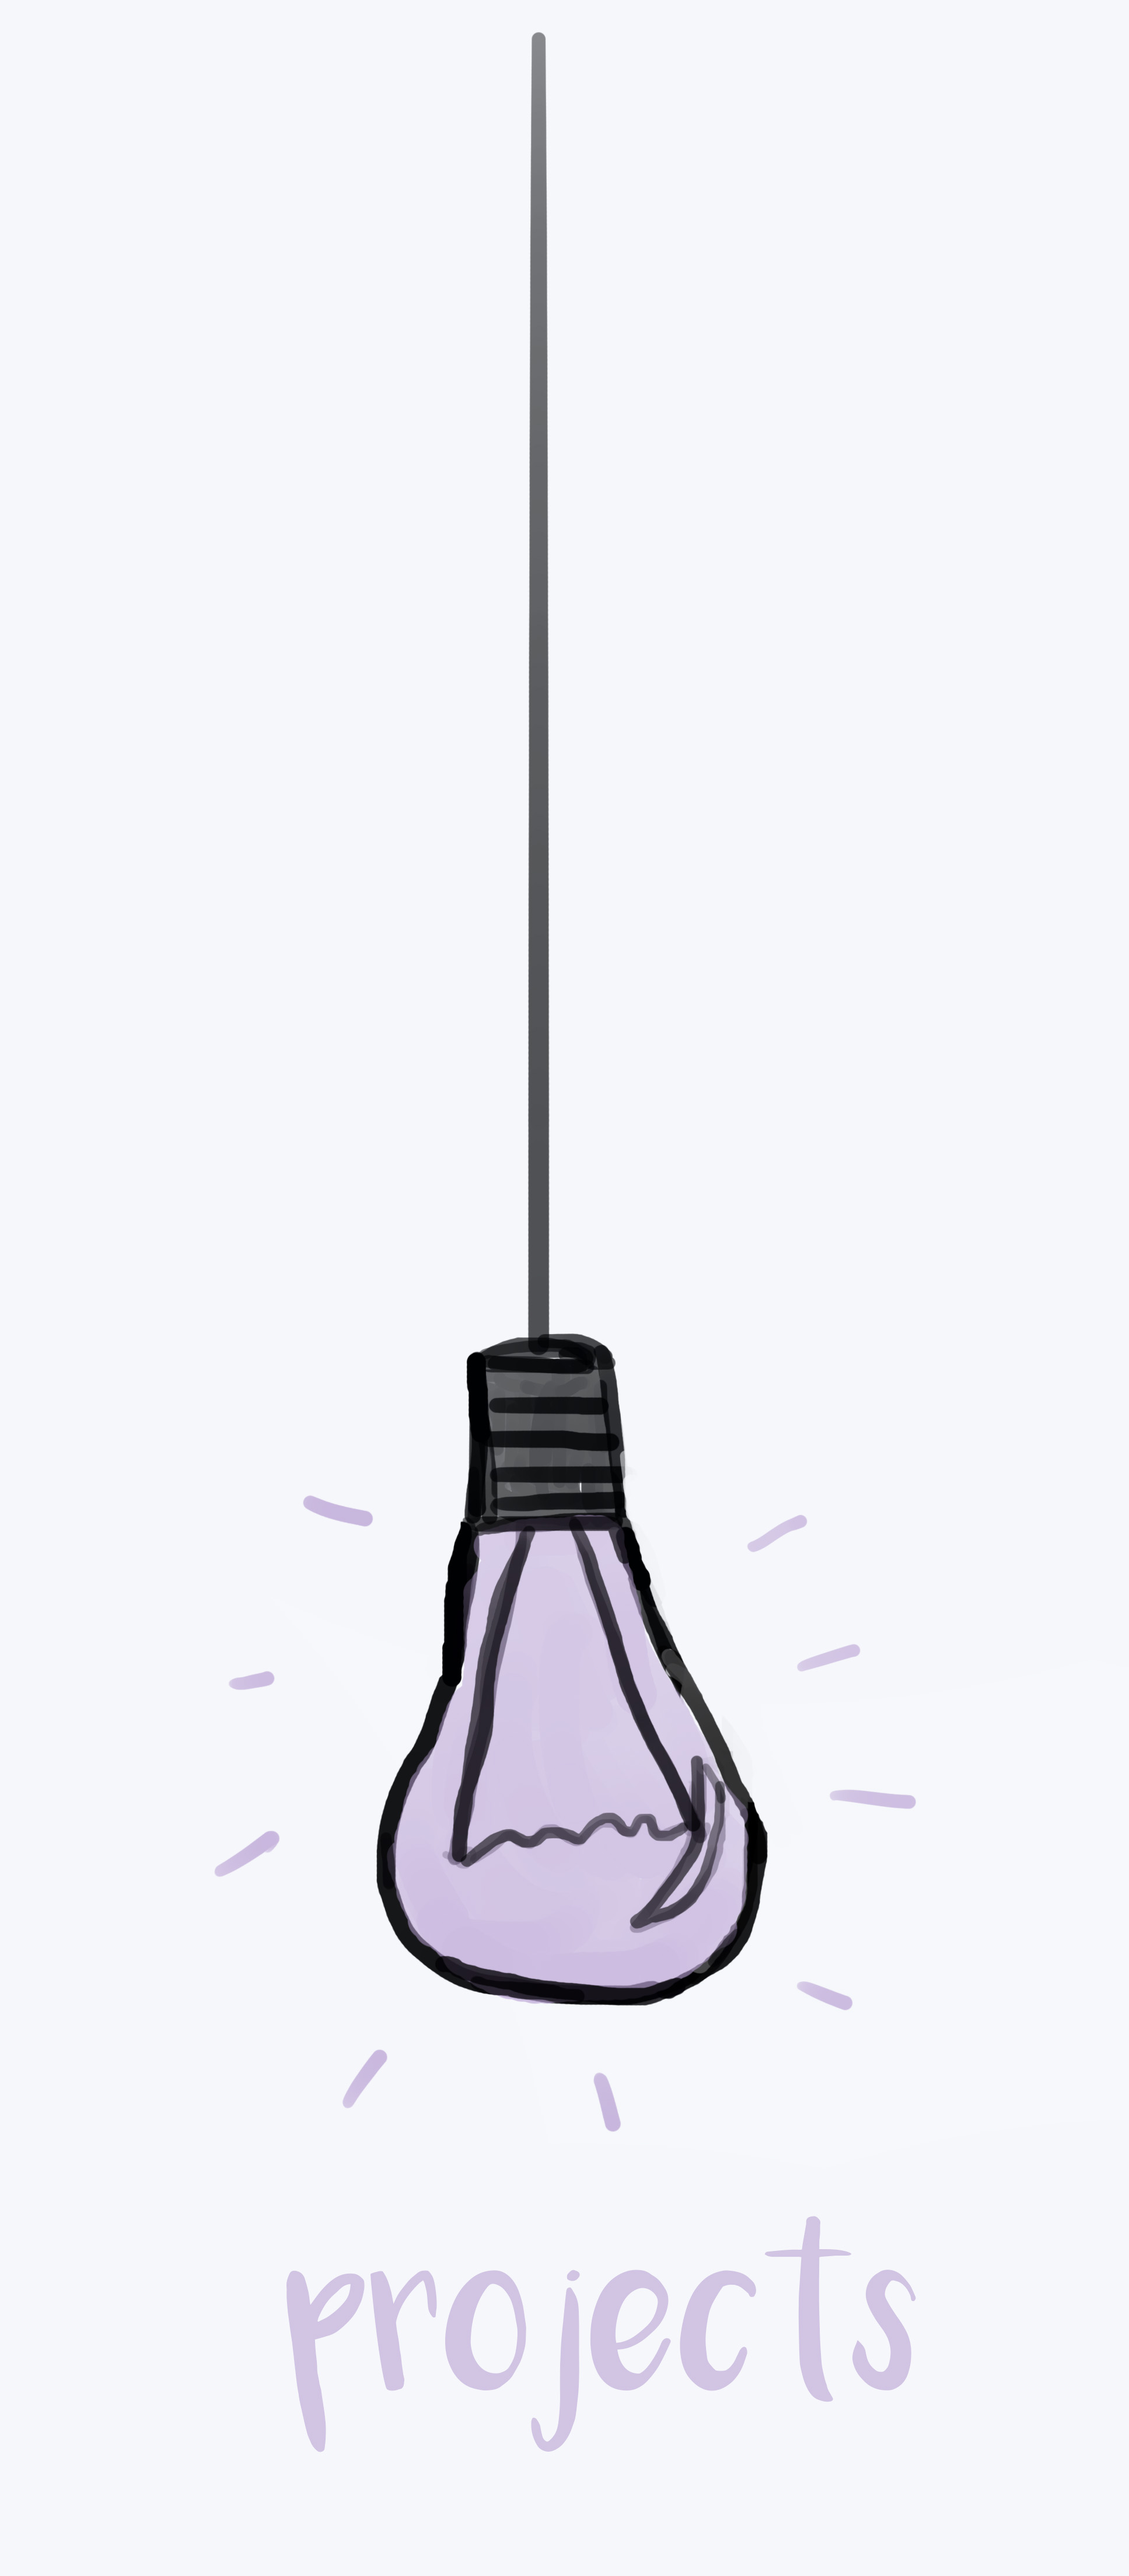
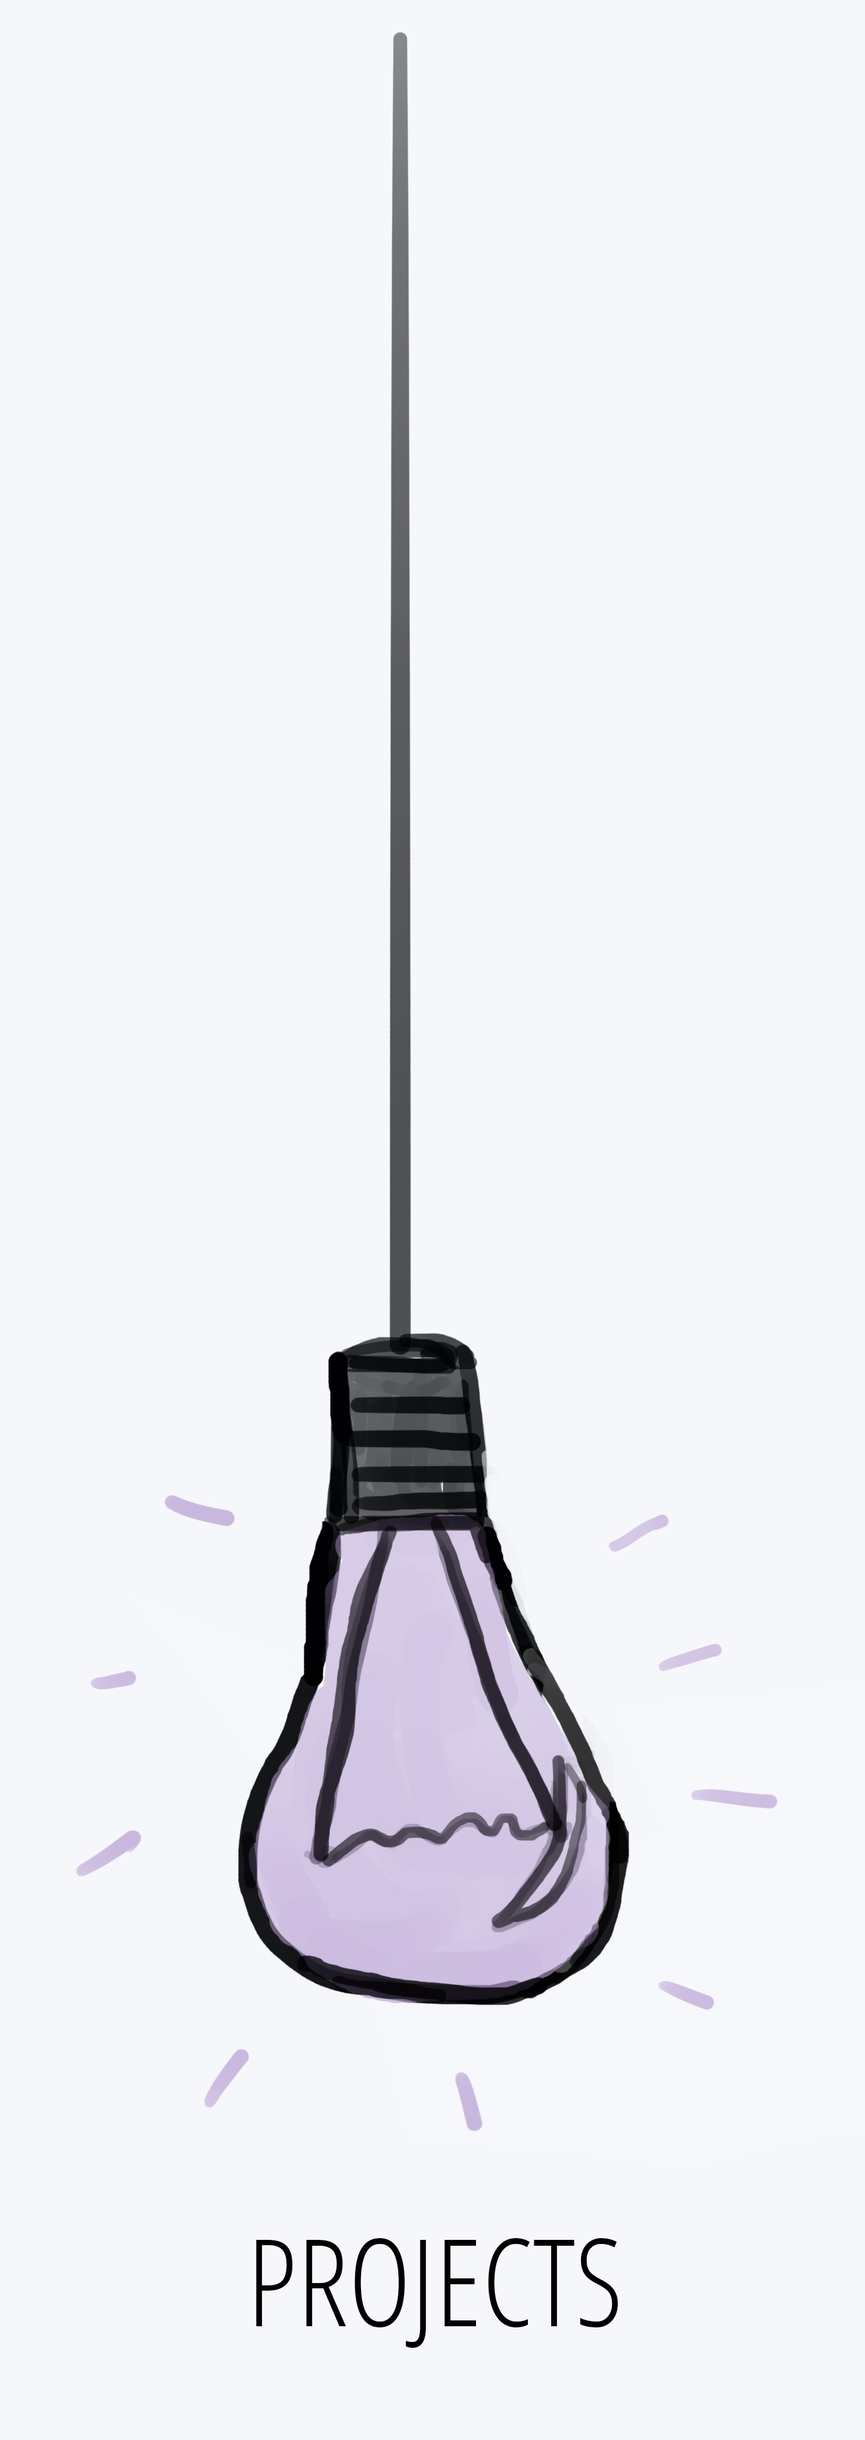
changed bulbs

diff --git a/src/App.js b/src/App.js
@@ -70,22 +70,22 @@ class App extends Component {
       fourthBulbElem = this.state.contactImage;
     }
     var firstStyle={
-        maxWidth:'75%',
+        maxWidth:'65%',
         top:'0px',
         overflow:'hidden'
       }
       var secondStyle={
-        maxWidth:'75%',
+        maxWidth:'65%',
         top:'0px',
         overflow:'hidden'
       }
       var thirdStyle={
-        maxWidth:'75%',
+        maxWidth:'65%',
         top:'0px',
         overflow:'hidden'
       }
       var fourthStyle={
-        maxWidth:'75%',
+        maxWidth:'65%',
         top:'0px',
         overflow:'hidden'
       }
@@ -136,9 +136,7 @@ class App extends Component {
                   Claire Huang
                 <div className="subtitle">student. developer.</div>
               </div>
-              <div>
-                *Hover over the lights to turn them on!
-              </div>
+
 
             </div>
 

diff --git a/src/index.css b/src/index.css
@@ -11,7 +11,7 @@
 .homepage-components{
   display:flex;
   flex-direction: column;
-  margin-bottom: 50px;
+  margin-bottom: 40px;
   padding-right: 40%;
   text-align:left;
   white-space: nowrap;
@@ -263,8 +263,8 @@
     font-weight: 500;
   }
   .firstbody{
-    height:100vh;
-    min-height: 800px;
+    min-height:100vh;
+
   }
   .container{
     display: inline-block;
